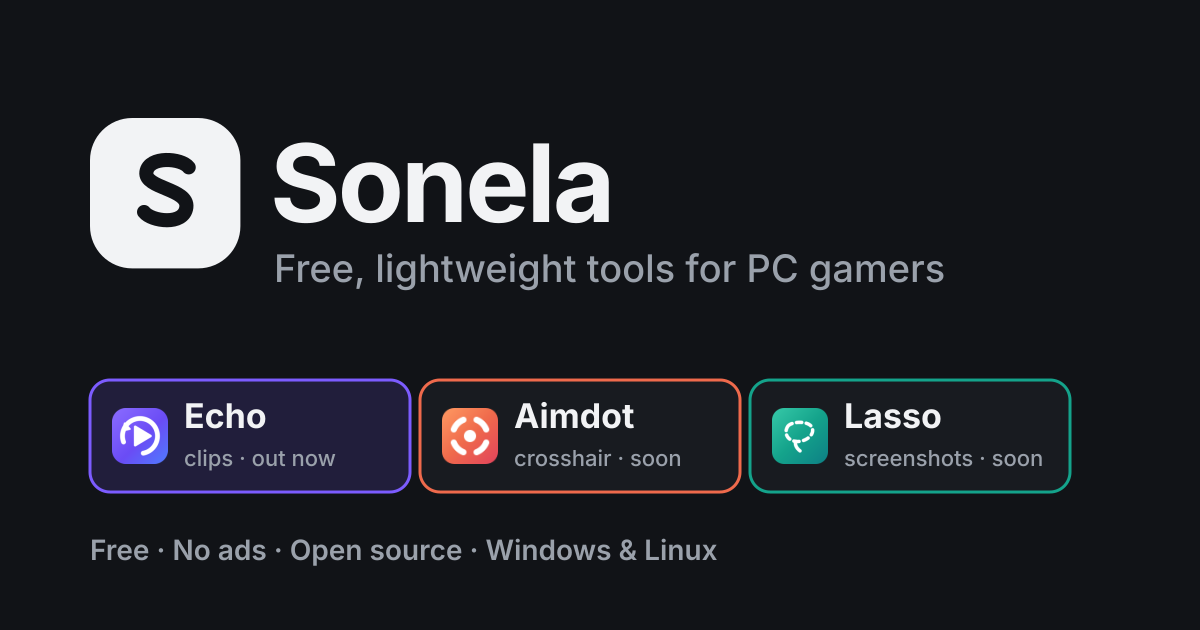
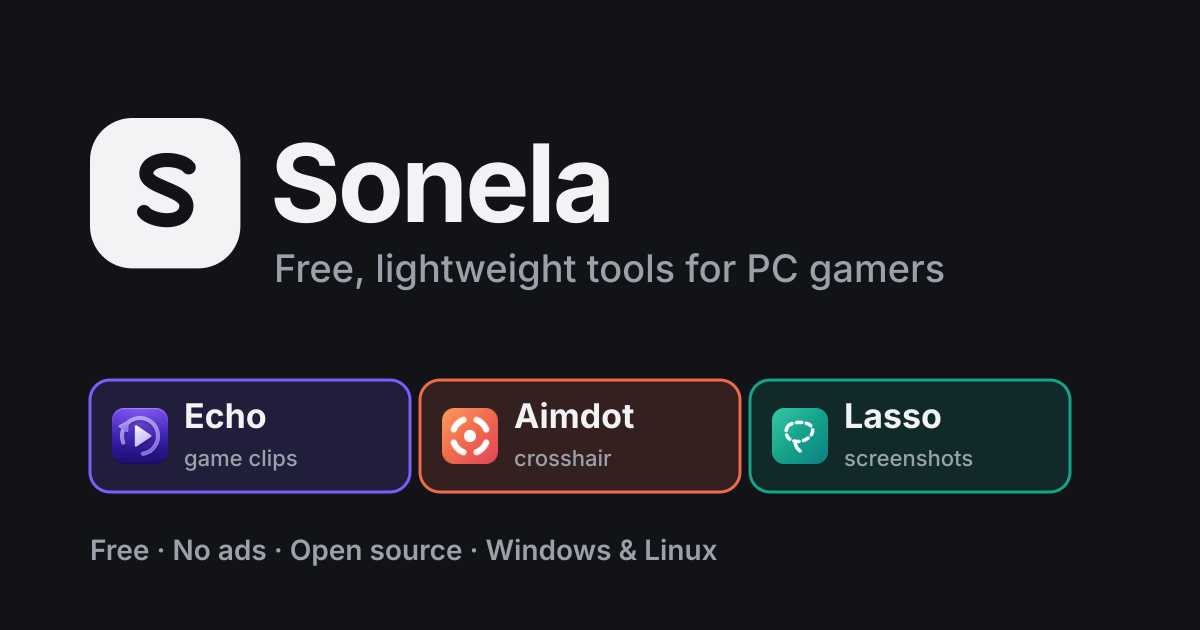
Lasso is out: home, About, menu, README, link preview and search text no longer say coming soon (the preview also had Aimdot as soon)

Changed region(s): [[0.3392, 0.6032, 0.6167, 0.7841], [0.0925, 0.6333, 0.2775, 0.754], [0.8325, 0.7238, 0.8633, 0.754]]

diff --git a/public/index.html b/public/index.html
@@ -25,7 +25,7 @@
 <link rel="icon" href="/favicon.svg" type="image/svg+xml">
 <link rel="apple-touch-icon" href="/apple-touch-icon.png">
 <link rel="manifest" href="/site.webmanifest">
-<script type="application/ld+json">{"@context":"https://schema.org","@graph":[{"@type":"WebSite","@id":"https://sonela.app/#site","name":"Sonela","url":"https://sonela.app/","description":"Free, open-source gaming tools that stay light on your PC: Echo the game clip recorder, the Aimdot crosshair and the Lasso screenshot tool. No ads.","publisher":{"@id":"https://sonela.app/#org"}},{"@type":"Organization","@id":"https://sonela.app/#org","name":"Sonela","url":"https://sonela.app/","logo":"https://sonela.app/icon-512.png","email":"support@echoclip.link","sameAs":["https://github.com/Resister0/sonela","https://discord.gg/JPVewEfUQs"]},{"@type":"ItemList","@id":"https://sonela.app/#apps","name":"Apps by Sonela","itemListElement":[{"@type":"ListItem","position":1,"item":{"@type":"SoftwareApplication","name":"Echo","description":"Game clip recorder for Windows and Linux","operatingSystem":"Windows, Linux","isAccessibleForFree":true,"publisher":{"@id":"https://sonela.app/#org"},"url":"https://echoclip.link/"}},{"@type":"ListItem","position":2,"item":{"@type":"SoftwareApplication","name":"Sonela Aimdot","description":"Crosshair overlay","operatingSystem":"Windows, Linux","isAccessibleForFree":true,"publisher":{"@id":"https://sonela.app/#org"},"url":"https://sonela.app/aimdot"}},{"@type":"ListItem","position":3,"item":{"@type":"SoftwareApplication","name":"Sonela Lasso","description":"Screenshot and snipping tool (coming soon)","operatingSystem":"Windows, Linux","isAccessibleForFree":true,"publisher":{"@id":"https://sonela.app/#org"},"url":"https://sonela.app/lasso"}}]}]}</script>
+<script type="application/ld+json">{"@context":"https://schema.org","@graph":[{"@type":"WebSite","@id":"https://sonela.app/#site","name":"Sonela","url":"https://sonela.app/","description":"Free, open-source gaming tools that stay light on your PC: Echo the game clip recorder, the Aimdot crosshair and the Lasso screenshot tool. No ads.","publisher":{"@id":"https://sonela.app/#org"}},{"@type":"Organization","@id":"https://sonela.app/#org","name":"Sonela","url":"https://sonela.app/","logo":"https://sonela.app/icon-512.png","email":"support@echoclip.link","sameAs":["https://github.com/Resister0/sonela","https://discord.gg/JPVewEfUQs"]},{"@type":"ItemList","@id":"https://sonela.app/#apps","name":"Apps by Sonela","itemListElement":[{"@type":"ListItem","position":1,"item":{"@type":"SoftwareApplication","name":"Echo","description":"Game clip recorder for Windows and Linux","operatingSystem":"Windows, Linux","isAccessibleForFree":true,"publisher":{"@id":"https://sonela.app/#org"},"url":"https://echoclip.link/"}},{"@type":"ListItem","position":2,"item":{"@type":"SoftwareApplication","name":"Sonela Aimdot","description":"Crosshair overlay","operatingSystem":"Windows, Linux","isAccessibleForFree":true,"publisher":{"@id":"https://sonela.app/#org"},"url":"https://sonela.app/aimdot"}},{"@type":"ListItem","position":3,"item":{"@type":"SoftwareApplication","name":"Sonela Lasso","description":"Screenshot and snipping tool","operatingSystem":"Windows, Linux","isAccessibleForFree":true,"publisher":{"@id":"https://sonela.app/#org"},"url":"https://sonela.app/lasso"}}]}]}</script>
 <!-- /seo -->
 <link rel="stylesheet" href="/fonts/fonts.css">
 <link rel="stylesheet" href="/assets/system.css">
@@ -51,10 +51,10 @@
               <p class="t-label">Out now</p>
               <a href="https://echoclip.link/">Echo<span>Game clip recorder, 2.0</span></a>
               <a href="/aimdot">Aimdot<span>Crosshair overlay, 1.0</span></a>
+              <a href="/lasso">Lasso<span>Screenshot tool, 0.1</span></a>
             </div>
             <div class="menu-col span-3">
-              <p class="t-label">Coming next</p>
-              <a href="/lasso">Lasso<span>Screenshot tool</span></a>
+              <p class="t-label">Community</p>
               <a href="https://discord.gg/JPVewEfUQs">Discord<span>News and help</span></a>
             </div>
             <a class="menu-card span-3 start-10" href="/aimdot">
@@ -140,10 +140,10 @@
     <div class="wrap">
       <div class="grid grid--top sn-split">
         <div class="span-5 stack-4">
-          <p class="sn-kicker sn-kicker--plain">Coming next · Windows and Linux</p>
+          <p class="sn-kicker"><img src="/lasso.svg" alt="" width="40" height="40">Out now · Windows and Linux</p>
           <h2 id="lasso-h">Lasso, the screenshot tool</h2>
           <p class="t-lead">Draw around any part of the screen, mark it up, then copy, save or share it. Light enough to leave running all the time.</p>
-          <div class="btn-row"><a class="btn btn--secondary" href="https://discord.gg/JPVewEfUQs">Get news on Discord</a><a class="btn btn--secondary" href="/lasso">More about Lasso</a></div>
+          <div class="btn-row"><a class="btn btn--primary sn-dl" href="/lasso#download"><img src="/lasso.svg" alt="" width="24" height="24">Download Lasso</a><a class="btn btn--secondary" href="/lasso">More about Lasso</a></div>
         </div>
         <div class="span-6 start-7 sn-tile"><img src="/lasso.svg" alt="Lasso's app icon: a dashed loop on teal" width="220" height="220" loading="lazy"></div>
       </div>

diff --git a/public/lasso.html b/public/lasso.html
@@ -4,7 +4,7 @@
 <meta charset="utf-8">
 <meta name="viewport" content="width=device-width,initial-scale=1">
 <title>Sonela Lasso - a free screenshot tool for Windows and Linux</title>
-<meta name="description" data-soon-meta content="Sonela Lasso: draw around any part of the screen, mark it up, then copy, save or share it. Free and open source. Coming soon.">
+<meta name="description" content="Sonela Lasso: draw around any part of the screen, mark it up, then copy, save or share it. Free and open source.">
 <meta name="theme-color" content="#0a0a0a">
 <meta name="site-kind" content="software">
 <meta name="page-type" content="software">
@@ -12,7 +12,7 @@
 <link rel="canonical" href="https://sonela.app/lasso">
 <meta property="og:url" content="https://sonela.app/lasso">
 <meta property="og:title" content="Sonela Lasso - a free screenshot tool for Windows and Linux">
-<meta property="og:description" data-soon-meta content="Sonela Lasso: draw around any part of the screen, mark it up, then copy, save or share it. Free and open source. Coming soon.">
+<meta property="og:description" content="Sonela Lasso: draw around any part of the screen, mark it up, then copy, save or share it. Free and open source.">
 <meta property="og:site_name" content="Sonela">
 <meta property="og:type" content="website">
 <meta property="og:locale" content="en_US">
@@ -50,10 +50,10 @@
               <p class="t-label">Out now</p>
               <a href="https://echoclip.link/">Echo<span>Game clip recorder, 2.0</span></a>
               <a href="/aimdot">Aimdot<span>Crosshair overlay, 1.0</span></a>
+              <a href="/lasso">Lasso<span>Screenshot tool, 0.1</span></a>
             </div>
             <div class="menu-col span-3">
-              <p class="t-label">Coming next</p>
-              <a href="/lasso">Lasso<span>Screenshot tool</span></a>
+              <p class="t-label">Community</p>
               <a href="https://discord.gg/JPVewEfUQs">Discord<span>News and help</span></a>
             </div>
             <a class="menu-card span-3 start-10" href="/aimdot">
@@ -82,7 +82,7 @@
   <section class="hero sn-solo" data-enter aria-labelledby="hero-h">
     <div class="wrap">
       <img class="sn-solo__icon" src="/lasso.svg" alt="" width="128" height="128">
-      <p class="sn-kicker sn-kicker--plain"><span>Lasso<span data-soon-gone> · coming soon</span></span></p>
+      <p class="sn-kicker sn-kicker--plain">Lasso</p>
       <h1 id="hero-h">A free screenshot tool for Windows and Linux</h1>
       <p class="hero__lead">Draw around any part of the screen, mark it up, then copy, save or share it. Light enough to leave running all the time.</p>
       <div class="dl-grid sn-solo__dl" id="download">

diff --git a/public/about.html b/public/about.html
@@ -51,10 +51,10 @@
               <p class="t-label">Out now</p>
               <a href="https://echoclip.link/">Echo<span>Game clip recorder, 2.0</span></a>
               <a href="/aimdot">Aimdot<span>Crosshair overlay, 1.0</span></a>
+              <a href="/lasso">Lasso<span>Screenshot tool, 0.1</span></a>
             </div>
             <div class="menu-col span-3">
-              <p class="t-label">Coming next</p>
-              <a href="/lasso">Lasso<span>Screenshot tool</span></a>
+              <p class="t-label">Community</p>
               <a href="https://discord.gg/JPVewEfUQs">Discord<span>News and help</span></a>
             </div>
             <a class="menu-card span-3 start-10" href="/aimdot">
@@ -90,7 +90,7 @@
       <div class="span-6 start-7 sn-rows">
         <a class="sn-row" href="https://echoclip.link/"><img src="/echo.png" alt="" width="56" height="56"><span><b>Echo</b><em class="sn-tag sn-tag--out">Out now · 2.0</em><small>Game clip recorder for Windows and Linux.</small></span></a>
         <a class="sn-row" href="/aimdot"><img src="/aimdot.svg" alt="" width="56" height="56"><span><b>Aimdot</b><em class="sn-tag sn-tag--out">Out now · 1.0</em><small>A crosshair overlay for any game.</small></span></a>
-        <a class="sn-row" href="/lasso"><img src="/lasso.svg" alt="" width="56" height="56"><span><b>Lasso</b><em class="sn-tag">Coming soon</em><small>A screenshot tool: draw around it, mark it up, share it.</small></span></a>
+        <a class="sn-row" href="/lasso"><img src="/lasso.svg" alt="" width="56" height="56"><span><b>Lasso</b><em class="sn-tag sn-tag--out">Out now · 0.1</em><small>A screenshot tool: draw around it, mark it up, share it.</small></span></a>
       </div>
     </div></div>
   </section>

diff --git a/public/404.html b/public/404.html
@@ -49,10 +49,10 @@
               <p class="t-label">Out now</p>
               <a href="https://echoclip.link/">Echo<span>Game clip recorder, 2.0</span></a>
               <a href="/aimdot">Aimdot<span>Crosshair overlay, 1.0</span></a>
+              <a href="/lasso">Lasso<span>Screenshot tool, 0.1</span></a>
             </div>
             <div class="menu-col span-3">
-              <p class="t-label">Coming next</p>
-              <a href="/lasso">Lasso<span>Screenshot tool</span></a>
+              <p class="t-label">Community</p>
               <a href="https://discord.gg/JPVewEfUQs">Discord<span>News and help</span></a>
             </div>
             <a class="menu-card span-3 start-10" href="/aimdot">

diff --git a/public/aimdot.html b/public/aimdot.html
@@ -50,10 +50,10 @@
               <p class="t-label">Out now</p>
               <a href="https://echoclip.link/">Echo<span>Game clip recorder, 2.0</span></a>
               <a href="/aimdot">Aimdot<span>Crosshair overlay, 1.0</span></a>
+              <a href="/lasso">Lasso<span>Screenshot tool, 0.1</span></a>
             </div>
             <div class="menu-col span-3">
-              <p class="t-label">Coming next</p>
-              <a href="/lasso">Lasso<span>Screenshot tool</span></a>
+              <p class="t-label">Community</p>
               <a href="https://discord.gg/JPVewEfUQs">Discord<span>News and help</span></a>
             </div>
             <a class="menu-card span-3 start-10" href="/aimdot">

diff --git a/public/privacy.html b/public/privacy.html
@@ -50,10 +50,10 @@
               <p class="t-label">Out now</p>
               <a href="https://echoclip.link/">Echo<span>Game clip recorder, 2.0</span></a>
               <a href="/aimdot">Aimdot<span>Crosshair overlay, 1.0</span></a>
+              <a href="/lasso">Lasso<span>Screenshot tool, 0.1</span></a>
             </div>
             <div class="menu-col span-3">
-              <p class="t-label">Coming next</p>
-              <a href="/lasso">Lasso<span>Screenshot tool</span></a>
+              <p class="t-label">Community</p>
               <a href="https://discord.gg/JPVewEfUQs">Discord<span>News and help</span></a>
             </div>
             <a class="menu-card span-3 start-10" href="/aimdot">

diff --git a/build_pages.py b/build_pages.py
@@ -57,10 +57,10 @@ HEADER = r'''<header class="nav">
               <p class="t-label">Out now</p>
               <a href="https://echoclip.link/">Echo<span>Game clip recorder, 2.0</span></a>
               <a href="/aimdot">Aimdot<span>Crosshair overlay, 1.0</span></a>
+              <a href="/lasso">Lasso<span>Screenshot tool, 0.1</span></a>
             </div>
             <div class="menu-col span-3">
-              <p class="t-label">Coming next</p>
-              <a href="/lasso">Lasso<span>Screenshot tool</span></a>
+              <p class="t-label">Community</p>
               <a href="https://discord.gg/JPVewEfUQs">Discord<span>News and help</span></a>
             </div>
             <a class="menu-card span-3 start-10" href="/aimdot">
@@ -206,10 +206,10 @@ PAGES = [  # file, <title>, <meta description>, nav word marked as current ("" =
     <div class="wrap">
       <div class="grid grid--top sn-split">
         <div class="span-5 stack-4">
-          <p class="sn-kicker sn-kicker--plain">Coming next · Windows and Linux</p>
+          <p class="sn-kicker"><img src="/lasso.svg" alt="" width="40" height="40">Out now · Windows and Linux</p>
           <h2 id="lasso-h">Lasso, the screenshot tool</h2>
           <p class="t-lead">Draw around any part of the screen, mark it up, then copy, save or share it. Light enough to leave running all the time.</p>
-          <div class="btn-row"><a class="btn btn--secondary" href="https://discord.gg/JPVewEfUQs">Get news on Discord</a><a class="btn btn--secondary" href="/lasso">More about Lasso</a></div>
+          <div class="btn-row"><a class="btn btn--primary sn-dl" href="/lasso#download"><img src="/lasso.svg" alt="" width="24" height="24">Download Lasso</a><a class="btn btn--secondary" href="/lasso">More about Lasso</a></div>
         </div>
         <div class="span-6 start-7 sn-tile"><img src="/lasso.svg" alt="Lasso's app icon: a dashed loop on teal" width="220" height="220" loading="lazy"></div>
       </div>
@@ -246,7 +246,7 @@ PAGES = [  # file, <title>, <meta description>, nav word marked as current ("" =
       <div class="span-6 start-7 sn-rows">
         <a class="sn-row" href="https://echoclip.link/"><img src="/echo.png" alt="" width="56" height="56"><span><b>Echo</b><em class="sn-tag sn-tag--out">Out now · 2.0</em><small>Game clip recorder for Windows and Linux.</small></span></a>
         <a class="sn-row" href="/aimdot"><img src="/aimdot.svg" alt="" width="56" height="56"><span><b>Aimdot</b><em class="sn-tag sn-tag--out">Out now · 1.0</em><small>A crosshair overlay for any game.</small></span></a>
-        <a class="sn-row" href="/lasso"><img src="/lasso.svg" alt="" width="56" height="56"><span><b>Lasso</b><em class="sn-tag">Coming soon</em><small>A screenshot tool: draw around it, mark it up, share it.</small></span></a>
+        <a class="sn-row" href="/lasso"><img src="/lasso.svg" alt="" width="56" height="56"><span><b>Lasso</b><em class="sn-tag sn-tag--out">Out now · 0.1</em><small>A screenshot tool: draw around it, mark it up, share it.</small></span></a>
       </div>
     </div></div>
   </section>
@@ -345,15 +345,22 @@ PAGES = [  # file, <title>, <meta description>, nav word marked as current ("" =
 ''',
      "SUB_FOOT"),
     ("lasso.html", "Sonela Lasso - a free screenshot tool for Windows and Linux",
-     "Sonela Lasso: draw around any part of the screen, mark it up, then copy, save or share it. Free and open source. Coming soon.", "",
+     "Sonela Lasso: draw around any part of the screen, mark it up, then copy, save or share it. Free and open source.", "",
      r'''<main id="top" class="sn-sub sn-sub--lasso">
   <section class="hero sn-solo" data-enter aria-labelledby="hero-h">
     <div class="wrap">
       <img class="sn-solo__icon" src="/lasso.svg" alt="" width="128" height="128">
-      <p class="sn-kicker sn-kicker--plain">Lasso · coming soon</p>
+      <p class="sn-kicker sn-kicker--plain">Lasso</p>
       <h1 id="hero-h">A free screenshot tool for Windows and Linux</h1>
       <p class="hero__lead">Draw around any part of the screen, mark it up, then copy, save or share it. Light enough to leave running all the time.</p>
-      <div class="btn-row"><span class="btn btn--secondary sn-off" aria-disabled="true">Download · coming soon</span><a class="btn btn--primary" href="https://discord.gg/JPVewEfUQs">Get news on Discord</a></div>
+      <div class="dl-grid sn-solo__dl" id="download">
+        <span class="btn off dl" data-dl="windows" aria-disabled="true"><span>Windows (installer)</span><small data-dl-soon="windows">Coming soon</small></span>
+        <span class="btn off dl" data-dl="windows-portable" aria-disabled="true"><span>Windows (portable zip)</span><small data-dl-soon="windows-portable">Coming soon</small></span>
+        <span class="btn off dl" data-dl="linux" aria-disabled="true"><span>Linux (AppImage)</span><small data-dl-soon="linux">Coming soon</small></span>
+        <span class="btn off dl" data-dl="linux-tar" aria-disabled="true"><span>Linux (tar.gz)</span><small data-dl-soon="linux-tar">Coming soon</small></span>
+      </div>
+      <p class="note dl-ver" data-dl-version></p>
+      <p class="note">Free and open source. No ads, no account. <a href="https://discord.gg/JPVewEfUQs">Get news on Discord</a></p>
       <ul class="sn-solo__feats">
         <li><b>Draw around it</b>Grab exactly the part of the screen you want, any shape.</li>
         <li><b>Mark it up</b>Arrows, boxes and text before you send it.</li>

diff --git a/make_images.py b/make_images.py
@@ -58,9 +58,9 @@ OG = (f'<svg xmlns="http://www.w3.org/2000/svg" width="1200" height="630" viewBo
       f'<path d="{S_PATH}" fill="none" stroke="{BG}" stroke-width="6" stroke-linecap="round"/></g>'
       f'<text x="270" y="222" font-family="{FONT}" font-size="108" font-weight="700" letter-spacing="-3" fill="{INK}">{BRAND}</text>'
       f'<text x="274" y="282" font-family="{FONT}" font-size="38" font-weight="500" fill="{MUTED}">Free, lightweight tools for PC gamers</text>'
-      + chip(90, "Echo", "clips · out now", ECHO, True)
-      + chip(420, "Aimdot", "crosshair · soon", AIMDOT, False)
-      + chip(750, "Lasso", "screenshots · soon", LASSO, False)
+      + chip(90, "Echo", "game clips", ECHO, True)
+      + chip(420, "Aimdot", "crosshair", AIMDOT, True)
+      + chip(750, "Lasso", "screenshots", LASSO, True)
       + f'<text x="90" y="560" font-family="{FONT}" font-size="28" font-weight="600" fill="{MUTED}">Free · No ads · Open source · Windows &amp; Linux</text>'
       '</svg>\n')
 

diff --git a/seo.py b/seo.py
@@ -30,7 +30,7 @@ PRIORITY = {"/": "1.0", "/about": "0.6", "/aimdot": "0.7", "/lasso": "0.7", "/pr
 APPS = [
     {"name": "Echo", "url": "https://echoclip.link/", "about": "Game clip recorder for Windows and Linux"},
     {"name": f"{BRAND} Aimdot", "url": f"{ORIGIN}/aimdot", "about": "Crosshair overlay"},
-    {"name": f"{BRAND} Lasso", "url": f"{ORIGIN}/lasso", "about": "Screenshot and snipping tool (coming soon)"},
+    {"name": f"{BRAND} Lasso", "url": f"{ORIGIN}/lasso", "about": "Screenshot and snipping tool"},
 ]
 
 BEGIN, END = "<!-- seo: managed by seo.py, edit there -->", "<!-- /seo -->"

diff --git a/README.md b/README.md
@@ -53,7 +53,11 @@
   Draw around any part of the screen, mark it up,<br>
   then copy, save or share it.
 </p>
-<p align="center"><b>Coming soon</b> · <a href="https://sonela.app/lasso">sonela.app/lasso</a></p>
+<p align="center">
+  <a href="https://sonela.app/lasso#download"><b>Download Lasso</b></a> ·
+  <a href="https://sonela.app/lasso">sonela.app/lasso</a> ·
+  <a href="https://github.com/Resister0/lasso">Code on GitHub</a>
+</p>
 
 <br>
 
